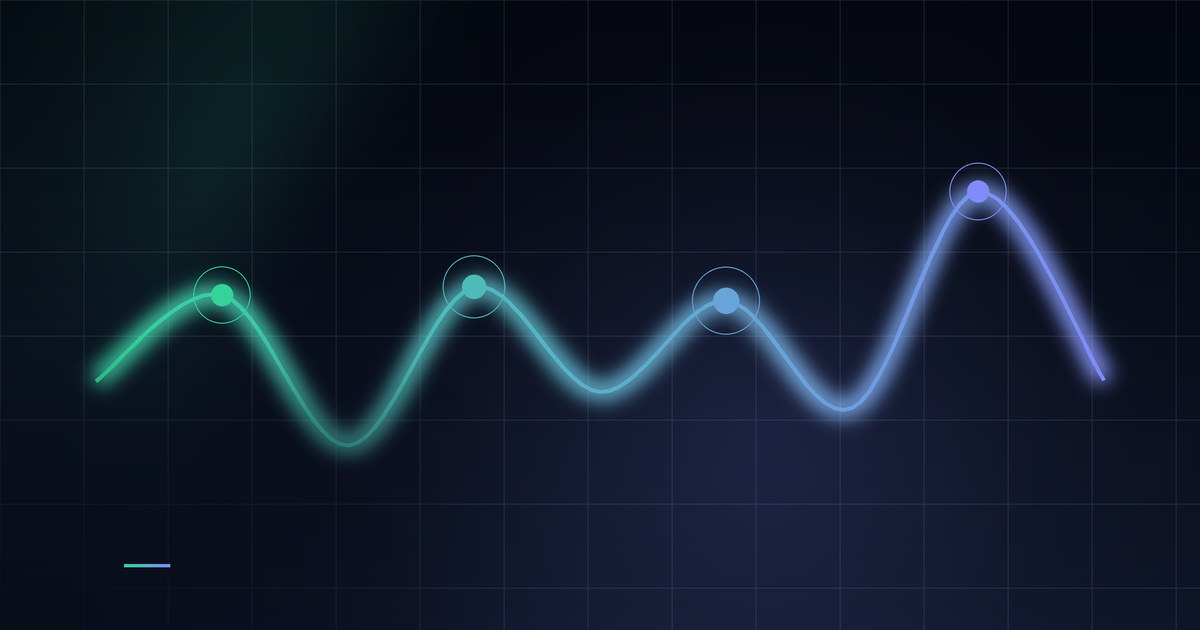
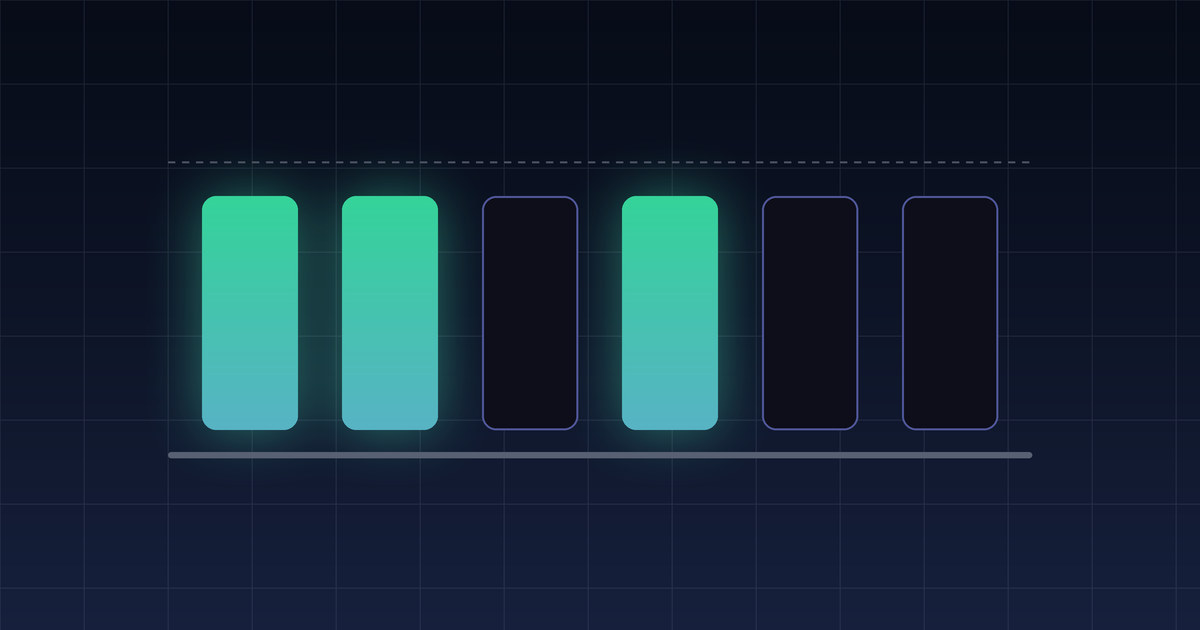
コラムのサムネを記事の内容に合わせた図柄に差し替え
ニュース用の抽象モチーフの流用をやめ、記事ごとに専用のキービジュアルを描く。
カードでは 16:10 に切り取られ、ヒーローではタイトルが上に重なるため、
文字を入れず中央寄せの図形だけで内容が伝わる構成にした。

generate-column-covers.py は専用の図柄がある記事には手を出さないので、
--force で再生成しても上書きされない。

diff --git a/web/scripts/generate-column-keyvisuals.py b/web/scripts/generate-column-keyvisuals.py
@@ -1,0 +1,191 @@
+"""
+コラム記事のキービジュアル（サムネイル）を生成する。
+
+    python3 scripts/generate-column-keyvisuals.py .
+
+出力先は public/images/columns/{slug}.jpg（1200x630）。
+
+cover はカード・記事ヒーロー・OG画像の3か所で使われる。
+カードでは 16:10 に切り取られ、ヒーローでは上に記事タイトルが重なるため、
+文字は入れず、中央寄せの図形だけで内容が伝わるようにしている。
+配色は generate-column-figures.py と同じトークンにそろえてある。
+"""
+import sys
+from pathlib import Path
+from PIL import Image, ImageChops, ImageDraw, ImageFilter
+
+W, H, SS = 1200, 630, 3
+CW, CH = W * SS, H * SS
+
+INK_DEEP = (7, 12, 24)
+INK      = (15, 23, 42)
+INK_SOFT = (22, 32, 60)
+INDIGO   = (129, 140, 248)
+EMERALD  = (52, 211, 153)
+MIST     = (147, 162, 191)
+
+
+def lerp(a, b, t):
+    return tuple(round(a[i] + (b[i] - a[i]) * t) for i in range(3))
+
+
+def base():
+    """地色とグリッド。図版・ニュースのカバーと同じ質感"""
+    img = Image.new("RGB", (CW, CH), INK)
+    d = ImageDraw.Draw(img)
+    for y in range(CH):
+        d.line([(0, y), (CW, y)], fill=lerp(INK_DEEP, INK_SOFT, (y / CH) ** 1.25))
+    grid = Image.new("RGB", (CW, CH), (0, 0, 0))
+    gd = ImageDraw.Draw(grid)
+    cell = 84 * SS
+    line = tuple(round(c * 0.26) for c in MIST)
+    for x in range(0, CW, cell):
+        gd.line([(x, 0), (x, CH)], fill=line, width=SS)
+    for y in range(0, CH, cell):
+        gd.line([(0, y), (CW, y)], fill=line, width=SS)
+    return Image.blend(img, ImageChops.screen(img, grid), 0.5)
+
+
+def gradient_bar(box, top, bottom, radius):
+    """縦方向のグラデーションで塗った角丸を、単体のレイヤーとして返す"""
+    x0, y0, x1, y1 = [round(v) for v in box]
+    w, h = x1 - x0, y1 - y0
+    layer = Image.new("RGB", (w, h))
+    ld = ImageDraw.Draw(layer)
+    for y in range(h):
+        ld.line([(0, y), (w, y)], fill=lerp(top, bottom, y / max(h - 1, 1)))
+    mask = Image.new("L", (w, h), 0)
+    ImageDraw.Draw(mask).rounded_rectangle([0, 0, w - 1, h - 1], radius=radius, fill=255)
+    return layer, mask, (x0, y0)
+
+
+def glow(img, draw_shapes, blur, strength):
+    """図形をぼかして加算合成し、発光させる"""
+    layer = Image.new("RGB", (CW, CH), (0, 0, 0))
+    draw_shapes(ImageDraw.Draw(layer))
+    layer = layer.filter(ImageFilter.GaussianBlur(blur * SS))
+    return Image.blend(img, ImageChops.screen(img, layer), strength)
+
+
+def save(img, path):
+    img.resize((W, H), Image.LANCZOS).save(
+        path, "JPEG", quality=88, optimize=True, progressive=True, subsampling=0)
+    print(f"  {path.name}  {path.stat().st_size // 1024}KB")
+
+
+# ------------------------------------------------------------------
+def kv_fitness_check(out):
+    """6つの特性のうち、体力チェックで埋まるのは3つだけ、という欠落を絵にする。
+    左から 筋力・バランス能力・敏捷性・全身持久力・感覚機能・認知機能。
+    埋まっているのは 1,2,4 番目"""
+    filled = [True, True, False, True, False, False]
+
+    slot_w, gap = 96 * SS, 44 * SS
+    total = len(filled) * slot_w + (len(filled) - 1) * gap
+    x0 = (CW - total) / 2
+    top, bottom = 196 * SS, 430 * SS
+    radius = 14 * SS
+
+    def boxes():
+        for i, on in enumerate(filled):
+            x = x0 + i * (slot_w + gap)
+            yield i, on, (x, top, x + slot_w, bottom)
+
+    img = base()
+
+    # 埋まっている柱を光らせる
+    def shapes(d):
+        for _, on, box in boxes():
+            if on:
+                d.rounded_rectangle(box, radius=radius,
+                                    fill=tuple(round(c * 0.55) for c in EMERALD))
+    img = glow(img, shapes, blur=26, strength=0.85)
+
+    d = ImageDraw.Draw(img)
+
+    # 指針が求める水準を示す上端の線。柱の有無にかかわらず全体に渡す
+    rule = tuple(round(c * 0.5) for c in MIST)
+    for x in range(round(x0 - 34 * SS), round(x0 + total + 34 * SS), 14 * SS):
+        d.line([(x, top - 34 * SS), (x + 7 * SS, top - 34 * SS)], fill=rule, width=2 * SS)
+
+    for i, on, box in boxes():
+        if on:
+            layer, mask, pos = gradient_bar(box, EMERALD, lerp(EMERALD, INDIGO, 0.45), radius)
+            img.paste(layer, pos, mask)
+            d = ImageDraw.Draw(img)
+        else:
+            # 空きは輪郭だけ。中を描き込むと読み込み中の枠に見える
+            d.rounded_rectangle(box, radius=radius,
+                                fill=tuple(round(c * 0.10) for c in INDIGO),
+                                outline=tuple(round(c * 0.62) for c in INDIGO),
+                                width=2 * SS)
+
+    # 土台。6つが一続きの評価であることを示す
+    d.rounded_rectangle([x0 - 34 * SS, bottom + 22 * SS, x0 + total + 34 * SS, bottom + 28 * SS],
+                        radius=3 * SS, fill=tuple(round(c * 0.6) for c in MIST))
+    save(img, out)
+
+
+# ------------------------------------------------------------------
+def kv_five_measures(out):
+    """事業者が講ずべき5つの措置。積み上がって一つの体系になることを絵にする"""
+    n = 5
+    slot_w, gap = 110 * SS, 46 * SS
+    total = n * slot_w + (n - 1) * gap
+    x0 = (CW - total) / 2
+    bottom = 452 * SS
+    heights = [126, 168, 210, 252, 294]
+    radius = 14 * SS
+
+    def tops():
+        for i, h in enumerate(heights):
+            x = x0 + i * (slot_w + gap)
+            yield i, x, bottom - h * SS
+
+    img = base()
+
+    def shapes(d):
+        for i, x, y in tops():
+            d.rounded_rectangle([x, y, x + slot_w, bottom], radius=radius,
+                                fill=tuple(round(c * 0.42) for c in
+                                           lerp(EMERALD, INDIGO, i / (n - 1))))
+    img = glow(img, shapes, blur=28, strength=0.8)
+
+    d = ImageDraw.Draw(img)
+
+    # 頂点をつなぐ線。5つが連なって一つの流れをなす
+    pts = [(x + slot_w / 2, y) for _, x, y in tops()]
+    d.line(pts, fill=tuple(round(c * 0.7) for c in MIST), width=3 * SS, joint="curve")
+
+    for i, x, y in tops():
+        accent = lerp(EMERALD, INDIGO, i / (n - 1))
+        layer, mask, pos = gradient_bar([x, y, x + slot_w, bottom],
+                                        accent, lerp(accent, INK_SOFT, 0.55), radius)
+        img.paste(layer, pos, mask)
+        d = ImageDraw.Draw(img)
+        cx, cy = x + slot_w / 2, y
+        d.ellipse([cx - 11 * SS, cy - 11 * SS, cx + 11 * SS, cy + 11 * SS], fill=(255, 255, 255))
+        d.ellipse([cx - 21 * SS, cy - 21 * SS, cx + 21 * SS, cy + 21 * SS],
+                  outline=accent, width=2 * SS)
+
+    d.rounded_rectangle([x0 - 34 * SS, bottom + 22 * SS, x0 + total + 34 * SS, bottom + 28 * SS],
+                        radius=3 * SS, fill=tuple(round(c * 0.6) for c in MIST))
+    save(img, out)
+
+
+KEYVISUALS = {
+    "elderly-worker-fitness-check": kv_fitness_check,
+    "elderly-worker-safety-guideline-five-measures": kv_five_measures,
+}
+
+
+def main():
+    outdir = Path(sys.argv[1]) / "public/images/columns"
+    outdir.mkdir(parents=True, exist_ok=True)
+    print("生成:")
+    for slug, fn in KEYVISUALS.items():
+        fn(outdir / f"{slug}.jpg")
+
+
+if __name__ == "__main__":
+    main()

diff --git a/web/scripts/generate-column-covers.py b/web/scripts/generate-column-covers.py
@@ -11,6 +11,9 @@
 ニュースとコラムで絵柄を揃えるためで、モチーフの定義を二重に持たない。
 モチーフは MOTIF に slug を書いて指定する。書かなければ
 ニュース側のキーワード判定にそのまま任せる。
+
+記事の中身に合わせた専用のキービジュアルがある slug は
+generate-column-keyvisuals.py が受け持つ。こちらは手を出さない。
 """
 import importlib.util
 import json
@@ -35,9 +38,8 @@ ACCENT_SOURCE = {
 }
 
 
-def load_news_module(web: Path):
-    path = web / "scripts/generate-news-covers.py"
-    spec = importlib.util.spec_from_file_location("news_covers", path)
+def load_module(path: Path, name: str):
+    spec = importlib.util.spec_from_file_location(name, path)
     module = importlib.util.module_from_spec(spec)
     spec.loader.exec_module(module)
     return module
@@ -47,8 +49,11 @@ def main():
     web = Path(sys.argv[1]).resolve()
     force = "--force" in sys.argv
 
-    cov = load_news_module(web)
+    cov = load_module(web / "scripts/generate-news-covers.py", "news_covers")
     cov.OVERRIDES.update(MOTIF)
+
+    bespoke = load_module(
+        web / "scripts/generate-column-keyvisuals.py", "column_keyvisuals").KEYVISUALS
 
     data = json.loads((web / "lib/columns.json").read_text(encoding="utf-8"))
     outdir = web / "public/images/columns"
@@ -56,6 +61,9 @@ def main():
 
     for item in data:
         path = outdir / f"{item['slug']}.jpg"
+        if item["slug"] in bespoke:
+            print(f"{item['slug']:<48}専用のキービジュアルがあるため生成しない")
+            continue
         if path.exists() and not force:
             print(f"{item['slug']:<48}既存のため生成しない")
             continue
